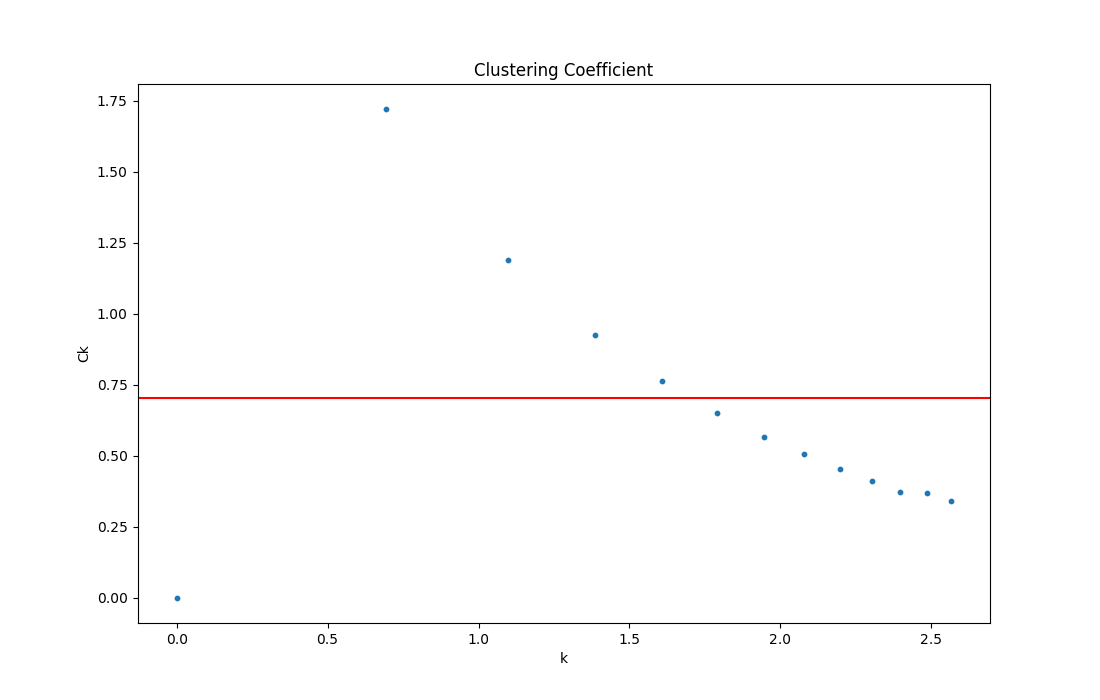
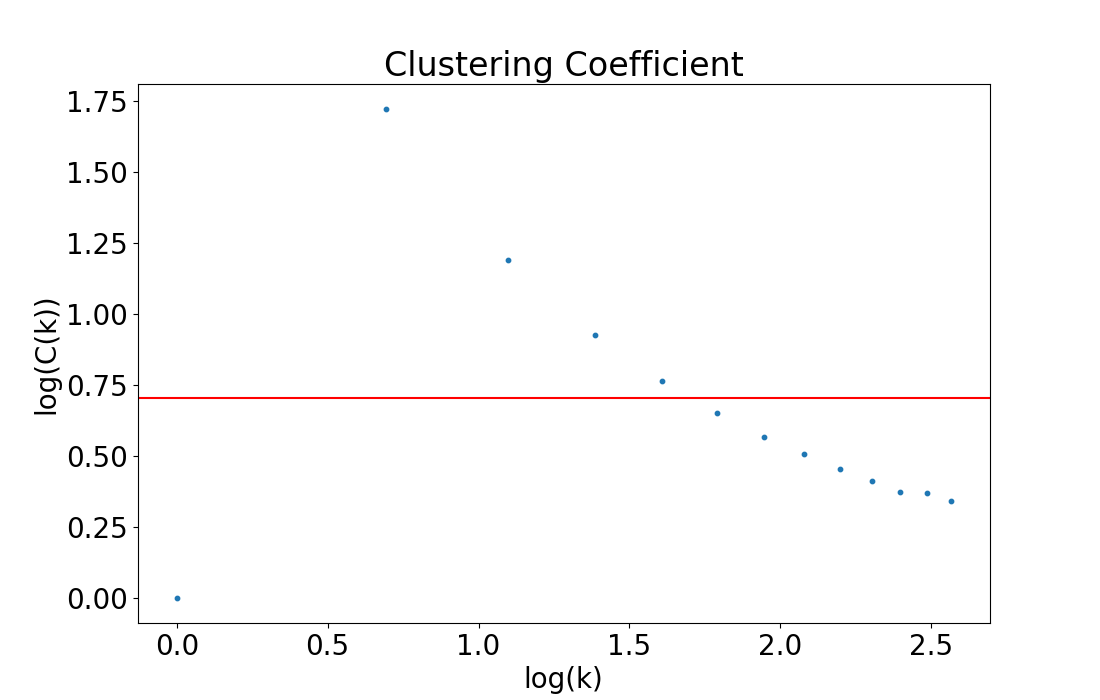
Modify plot functions & add centrality comparison

diff --git a/graph_analyzer/plot.py b/graph_analyzer/plot.py
@@ -1,4 +1,5 @@
 import sys
+import matplotlib
 import matplotlib.pyplot as plt
 import matplotlib.colors as mcolors
 import networkx as nx
@@ -10,10 +11,13 @@ import pickle
 import math
 
 def plot_curve(data, x_label, y_label, title, save_as, log=False, h_line=None, v_line=None):
-    x = data.keys()
-    y = data.values()
+    x = list(data.keys())
+    y = list(data.values())
     if log:
-        data.pop(0, None)
+        # Remove zeros for log-log plots
+        for k in x:
+            if k == 0 or data[k] == 0:
+                del data[k]
         x = [math.log(i) for i in data.keys()]
         y = [math.log(i) for i in data.values()]
     plt.scatter(x, y, s=10)
@@ -32,14 +36,20 @@ def plot_curve(data, x_label, y_label, title, save_as, log=False, h_line=None, v
     plt.savefig(save_as)
     plt.show()
 
-def plot_heatmap(graph, pos, input_file, save_as, title):
-    data = pd.read_csv(input_file, names=['value'])
-    data.apply(lambda x: ((x - np.mean(x)) / (np.max(x) - np.min(x)))*225)
-    data = data.reindex(graph.nodes())
+def plot_heatmap(graph, pos, hubs, dataframe, save_as):
+    dataframe.apply(lambda x: ((x - np.mean(x)) / (np.max(x) - np.min(x)))*225)
+    dataframe = dataframe.reindex(graph.nodes())
     # Plot it, providing a continuous color scale with cmap:
+    node_size = []
+    for i in (graph.nodes()):
+        if i not in hubs:
+            node_size.append(0.6)
+        else:
+            # enlarge hubs size
+            node_size.append(5)
     opts = {
-        "node_color":data['value'],
-        'node_size': 0.7,
+        "node_color":dataframe['value'],
+        'node_size': node_size, #0.6, 
         'with_labels': False,
         "pos":pos,
         "cmap":plt.cm.plasma
@@ -47,11 +57,8 @@ def plot_heatmap(graph, pos, input_file, save_as, title):
 
     nodes = nx.draw_networkx_nodes(graph, **opts)
     nodes.set_norm(mcolors.SymLogNorm(linthresh=0.01, linscale=1))
-    
-    # labels = nx.draw_networkx_labels(G, pos)
     edges = nx.draw_networkx_edges(graph, pos, width=0.05)
 
-    plt.title(title)
     plt.colorbar(nodes)
     plt.axis('off')
     plt.savefig(save_as)    
@@ -67,37 +74,72 @@ def plot_gragh(graph, save_dir):
     }
     nx.draw(graph, **options)
     plt.savefig(os.path.join(save_dir, 'graph.png')) 
-    plt.title("Graph")   
     plt.show()
     return pos
 
-def draw_properties(graph, pos, save_dir):
+def draw_properties(graph, pos, hubs, degrees, save_dir):
     with open(os.path.join(save_dir, "properties.pkl"), "rb") as f:
         property_info_dict = pickle.load(f)
 
     degree_corr = property_info_dict["degree_correlation"]
     degree_distribution = property_info_dict["degree_distribution"]
     clustering_coef = property_info_dict["clustering_coef"]
-    # degrees = property_info_dict['degrees']
 
-    plot_curve(clustering_coef, "k", "Ck", "Clustering Coefficient", 
+    plot_curve(clustering_coef, "log(k)", "log(C(k))", "Clustering Coefficient",
             save_as=os.path.join(save_dir, "clustering_coef.png"),
             log=True, 
             h_line=property_info_dict["avg_clustering_coef"])
-    plot_curve(degree_corr, "k", "knn", "Degree Correlation", 
+    plot_curve(degree_corr, "log(k)", "log(knn)", "Degree Correlation", 
             save_as=os.path.join(save_dir, "degree_corr.png"), 
             log=True)
-    plot_curve(degree_distribution, "k", "prob", "Degree Distribution", 
+    plot_curve(degree_distribution, "log(k)", "log(P(k))", "Degree Distribution",
             save_as=os.path.join(save_dir, "degree_distribution.png"),
             log=True,
             v_line=property_info_dict["avg_degree"])
-    
-    plot_heatmap(graph, pos, input_file=os.path.join(save_dir, 'bc_output.txt'), 
-                save_as=os.path.join(save_dir, 'betweenness.png'), 
-                title='Between-ness Centrality')
-    plot_heatmap(graph, pos, input_file=os.path.join(save_dir, 'close_output.txt'), 
-                save_as=os.path.join(save_dir,'closeness.png'),
-                title='Closeness Centrality')
+
+    bc = pd.read_csv(os.path.join(save_dir, 'bc_output.txt'), names=['value'])
+    cc = pd.read_csv(os.path.join(save_dir, 'close_output.txt'), names=['value'])
+    bc_values = bc['value'].tolist()
+    cc_values = cc['value'].tolist()
+    bc_degree = {}
+    cc_degree = {}
+    for i in range(len(degrees)):
+        k = degrees[i]
+        if cc_values[i] > 5000:
+            continue
+        if k not in bc_degree:
+            bc_degree[k] = [bc_values[i]]
+        else:
+            bc_degree[k].append(bc_values[i])
+        if k not in cc_degree:
+            cc_degree[k] = [cc_values[i]]
+        else:
+            cc_degree[k].append(cc_values[i])
+    for k in bc_degree.keys():
+        bc_degree[k] = sum(bc_degree[k])/float(len(bc_degree[k]))
+        cc_degree[k] = sum(cc_degree[k])/float(len(cc_degree[k]))
+
+    plot_curve(bc_degree, "log(k)", "log(bc)", "Betweenness v.s. Degree",
+            log=True,
+            save_as=os.path.join(save_dir, "bc_degree.png"))
+    plot_curve(cc_degree, "log(k)", "log(cc)", "Closeness v.s. Degree",
+            log=True,
+            save_as=os.path.join(save_dir, "cc_degree.png"))
+
+    bc_cc = {}
+    for i in range(len(degrees)):
+        if cc_values[i] > 5000:
+            continue
+        bc_cc[bc_values[i]] = cc_values[i]
+    plot_curve(bc_cc, "log(bc)", "log(cc)", "Betweenness v.s. Closeness",
+            log=True,
+            save_as=(os.path.join(save_dir, "bc_cc.png")))
+
+    plot_heatmap(graph, pos, hubs, bc, 
+                save_as=os.path.join(save_dir, 'betweenness.png'))
+    plot_heatmap(graph, pos, hubs, cc, 
+                save_as=os.path.join(save_dir,'closeness.png'))
+
 
 if __name__ == "__main__":
     if len(sys.argv) < 4:
@@ -108,13 +150,16 @@ if __name__ == "__main__":
     nx_graph = nx.Graph()
     own_graph = graph.Graph(sys.argv[1])
     degrees = own_graph.get_degrees()
+    hubs = []
+    matplotlib.rcParams.update({'font.size': 20})
     for v in own_graph.get_vertices():
         if degrees[v] > k:
+            hubs.append(v)
             for w in own_graph.neighbor_of(v):
                 nx_graph.add_edge(v, w)
     result_dir = sys.argv[2]
     if nx_graph.nodes():
         pos = plot_gragh(nx_graph, result_dir)
-        draw_properties(nx_graph, pos, result_dir)
+        draw_properties(nx_graph, pos, hubs, degrees, result_dir)
     else:
         print("There is no node satisfying your degree threshold.")
